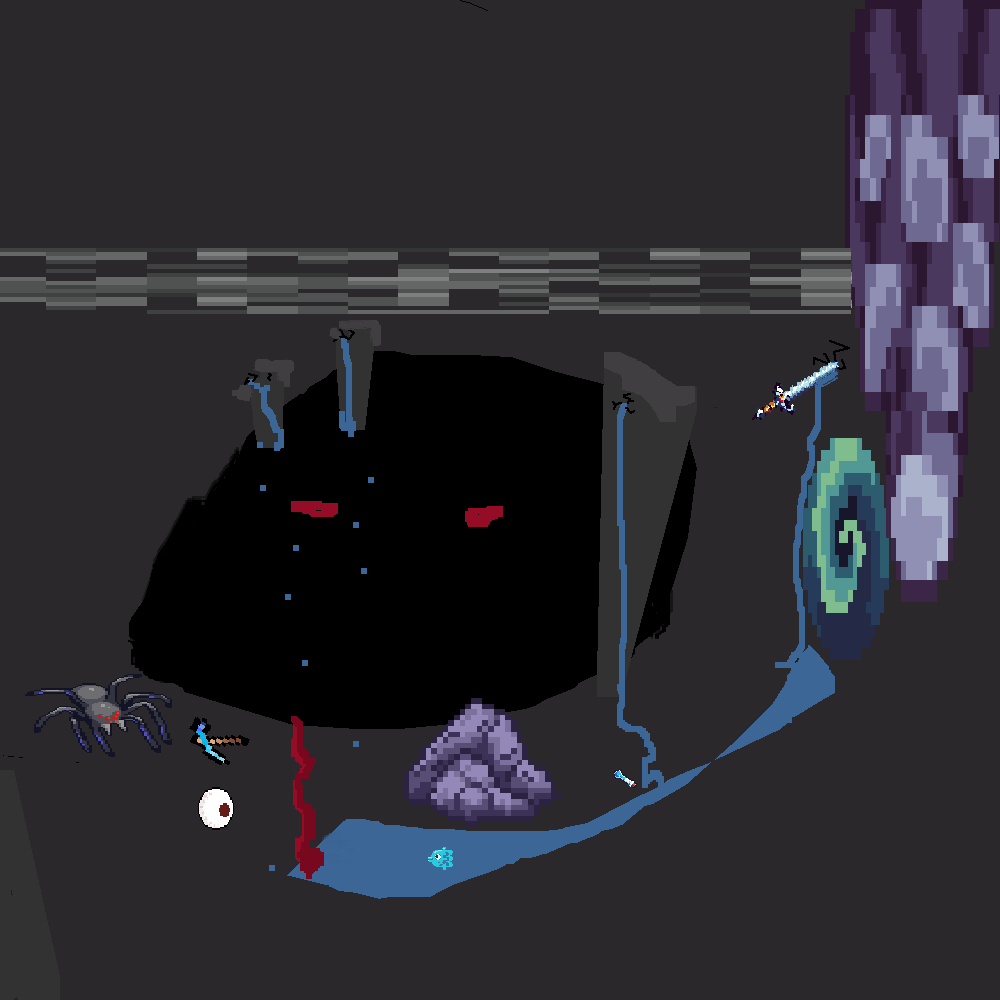
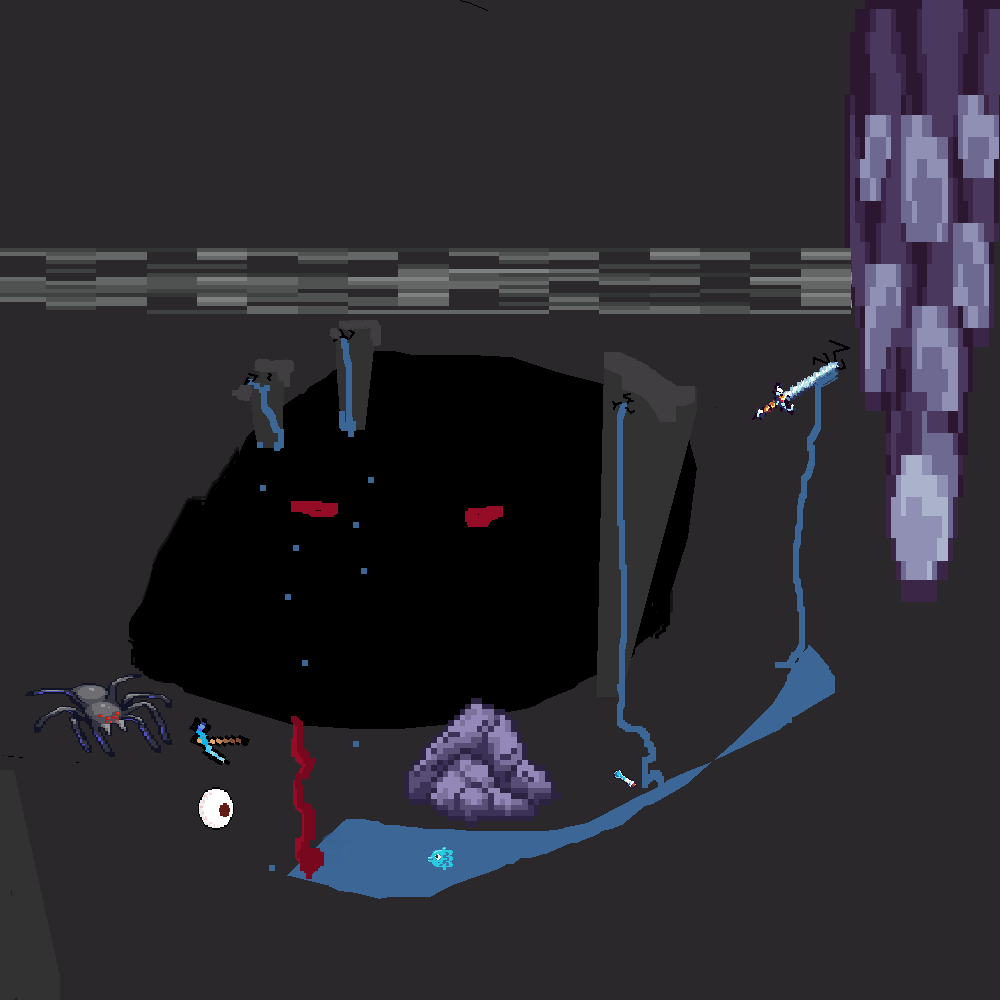
THE 3RD WORLD IS ADDED

Changed region(s): [[0.806, 0.434, 0.899, 0.682]]

diff --git a/Game.java b/Game.java
@@ -249,6 +249,21 @@ public class Game extends PApplet{
 
     System.out.println("Done loading level 2 (caveWorld)...");
 
+    // SETUP: forestWorld
+    plat3A = new Platform(p, PColor.GRAY, 0.0f, 0.0f, 400.0f, 10.0f);
+    plat3A.setOutlineColor(PColor.BLACK);
+    plat3A.stopGravity();
+    plat3B = new Platform(p, PColor.GRAY, 0.0f, 0.0f, 270.0f, 10.0f);
+    plat3B.setOutlineColor(PColor.BLACK);
+    plat3B.stopGravity();
+    portal3 = new Sprite(p, "images/portal.png",1.0f,300,520);
+
+    woodWorld.addSprite(plat3A);   
+    woodWorld.addSprite(scientist);
+    woodWorld.addSprite(plat3B);
+    woodWorld.addSprite(portal3);
+    
+
     //SETUP: Sound
     // Load a soundfile from the sounds folder of the sketch and play it back
      //song = new SoundFile(p, "sounds/Lenny_Kravitz_Fly_Away.mp3");
@@ -358,7 +373,7 @@ public class Game extends PApplet{
       startCaveWorld();
 
     } else if(p.key == '3'){
-      currentScreen = null;
+      currentScreen = woodWorld;
 
       //reset the moving Platform every time the Screen is re-displayed
       
@@ -388,6 +403,18 @@ public class Game extends PApplet{
       scientist.setSpeed(0f,0f);
       
   }
+
+  public void startWoodWorld(){
+      problemBeGone();
+      plat3A.moveTo(300.0f, 200.0f);
+      plat3B.moveTo(100.0f, 400.0f);
+      portal3.moveTo(200.0f, 200.0f);
+      scientist.moveTo(500f, 100f);
+      scientist.setAccelerationY(0f);
+      scientist.setSpeed(0f,0f);
+      
+  }
+
 
   public void keyReleased(){
 
@@ -480,6 +507,16 @@ public class Game extends PApplet{
       }
 
 
+
+    }
+
+    if(currentScreen == caveWorld){
+      System.out.print("2");
+
+      if(scientist.isOverlapping(portal2)){
+        currentScreen = woodWorld;
+        startWoodWorld();
+      }
 
     }
 
